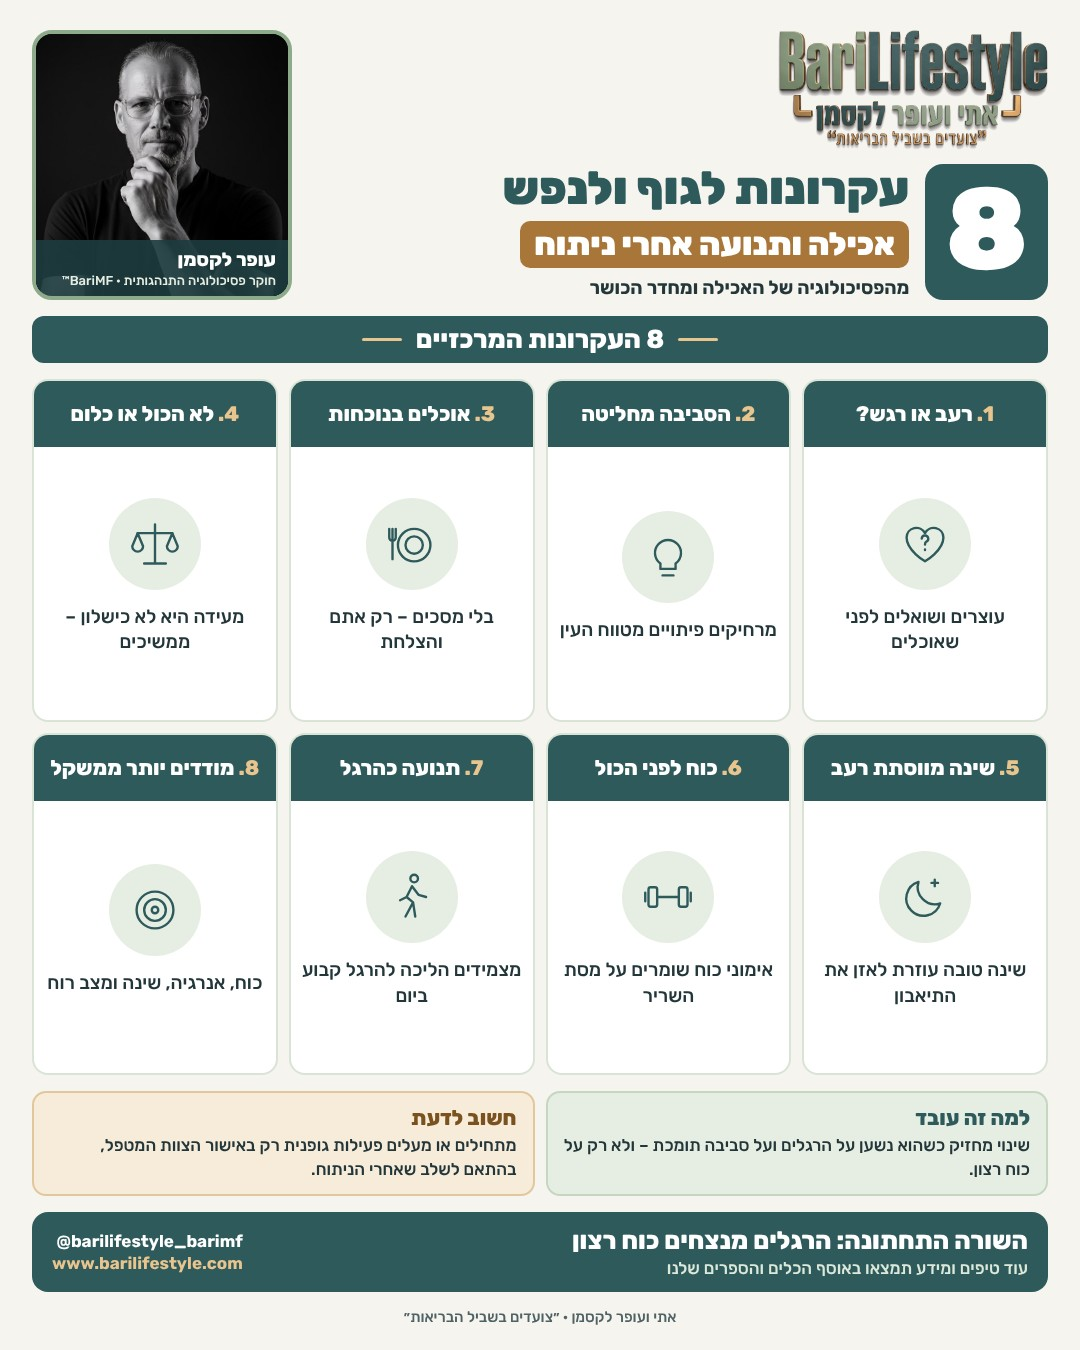
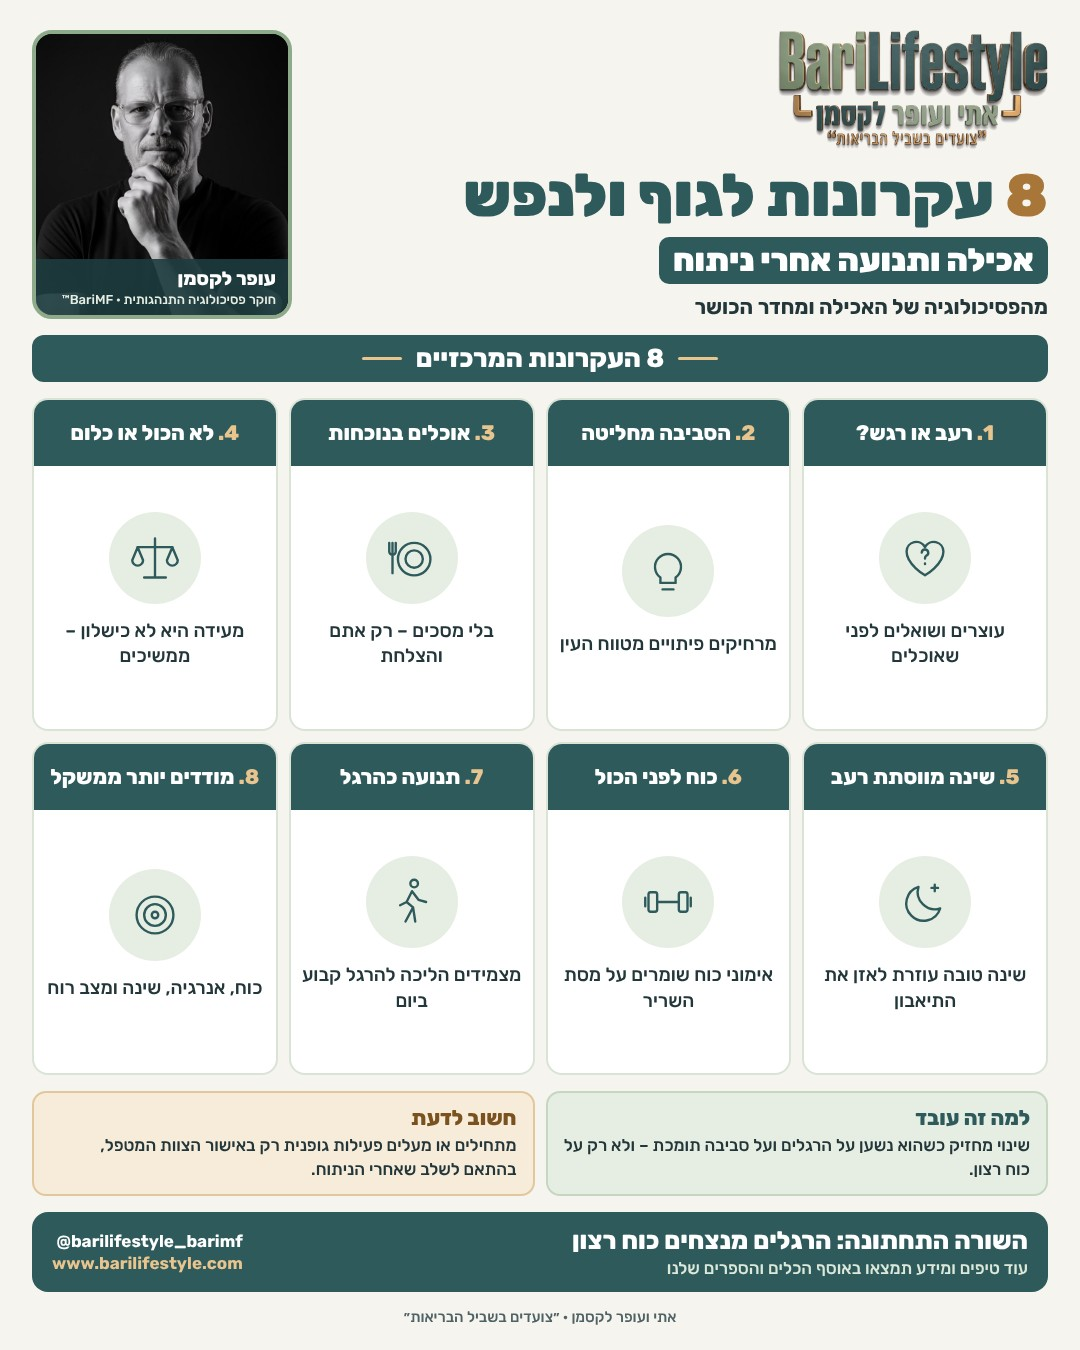
Infographic: show the number inside the title instead of a separate box
Claude-Session: https://claude.ai/code/session_015HGWVMJjAMHBJopgLK4MqJ

diff --git a/tools/tip/render_tip.py b/tools/tip/render_tip.py
@@ -6,7 +6,7 @@ Usage:  python3 tools/tip/render_tip.py CONFIG.json tips/YYYY-MM-DD.jpg
 Two layouts (key "type"):
 
 infographic – a summary grid ("10 habits ..."):
-  count      big number in the dark box, e.g. "10"
+  count      the number, shown inside the title in the accent colour, e.g. "10" → "10 הרגלים להצלחה"
   title      e.g. "הרגלים להצלחה"           (<= 3 words)
   chip       e.g. "אחרי ניתוח בריאטרי"      (<= 4 words)
   subtitle   one short line
@@ -158,10 +158,10 @@ def build(c):
         if not cols:
             sys.exit("infographic needs 6, 8, 9 or 10 items")
         hero = (f'<div class="hero"><div class="hero-main">{logo()}'
-                f'<div style="display:flex;align-items:center;gap:16px"><div class="count">{E(c["count"])}</div>'
-                f'<div style="display:flex;flex-direction:column;gap:8px;min-width:0"><div class="h1">{E(c["title"])}</div>'
-                f'<div class="chip" style="font-size:32px;background:{acc}">{E(c["chip"])}</div>'
-                f'<div class="sub">{E(c["subtitle"])}</div></div></div></div>{photo()}</div>')
+                f'<div style="display:flex;flex-direction:column;gap:10px;min-width:0">'
+                f'<div class="h1" style="font-size:60px"><span style="color:{acc}">{E(c["count"])}</span> {E(c["title"])}</div>'
+                f'<div class="chip" style="font-size:32px;background:#2F5A5C">{E(c["chip"])}</div>'
+                f'<div class="sub" style="font-size:21px">{E(c["subtitle"])}</div></div></div>{photo()}</div>')
         body = hero + bar(c["section"]) + cards(c["items"], cols, big=(cols <= 3)) + boxes(c) + bottom(c)
     elif c["type"] == "tip":
         if len(c["items"]) != 3:
